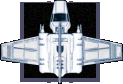
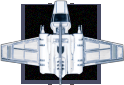
Extended text time, cleaned up ship transparency

diff --git a/index.html b/index.html
@@ -22,10 +22,10 @@ oldspeech = [0, 0, 0, 0, 0];
 var ship = {
 	name: [],
 	base: 80,
-	protrusions: 2,
-	offset: 20,
-	width: 123,
-	height: 84,
+	protrusions: 4,
+	offset: 21,
+	width: 124,
+	height: 85,
 	x: 400,
 	y: 540,
 	r: -0.5 * pi
@@ -165,7 +165,6 @@ function orient (flightplan) {
 		ctx[1].translate(direction * radius, 0);
 		ctx[1].rotate(direction * arc * pi);
 		ctx[1].translate(direction * -radius, -ship.base);
-
 		ship.r += direction * arc * pi;
 		if (ship.r > 2 * pi) {
 			ship.r -= 2 * pi;
@@ -197,7 +196,7 @@ function writespeech () {
 	var speechtimer = movecounter * 100 + timer;
 	ctx[2].clearRect(0, 0, 800, 600);
 	ctx[2].save();
-	ctx[2].globalAlpha = Math.sin(Math.max((1.2 * speechtimer / 500 - 0.2) * pi, 0));
+	ctx[2].globalAlpha = Math.sin(Math.max((1.2 * speechtimer / 600 - 0.2) * pi, 0));
 	ctx[2].font = "24px Bookman";
 	var line = [[], [], []];
 	var allspeech = speechtext.join("").split(" ");
@@ -216,10 +215,10 @@ function writespeech () {
 	ctx[2].fillText(line[1], 25, 60);
 	ctx[2].fillText(line[2], 35, 90);
 	ctx[2].restore();
-	if (movecounter == 1) {
+	if (movecounter == 2) {
 		document.title = speechtext[1].substr(5);
 	};
-	if (movecounter > 4) {
+	if (movecounter > 5) {
 		speech();
 		movecounter = 0;
 	};
@@ -388,17 +387,13 @@ speechParts = [[
 	"Exalted",
 	"Glacial",
 	"Grandiose",
-
 	"Imposing",
 	"Iridescent",
 	"Ivory",
-
 	"Luminous",
 	"Majestic",
 	"Magnificent",
 	"Massive",
-
-
 	"Monumental",
 	"Ominous",
 	"Opalescent",
@@ -406,18 +401,14 @@ speechParts = [[
 	"Pasty",
 	"Pearlescent",
 	"Pompous",
-
 	"Porcelain",
 	"Prismatic",
 	"Radiant",
 	"Regal",
-
 	"Resplendent",
 	"Scintillating",
 	"Snowy",
-
 	"Stately",
-
 	"Stupendous",
 	"Sublime",
 	"Astounding",
@@ -441,13 +432,11 @@ speechParts = [[
 	"Jovian",
 	"Lunar",
 	"Orbital",
-
 	"Planetary",
 	"Solar",
 	"Space",
 	"Star",
 	"Stellar",
-
 	"Void",
 	"Asteroid",
 	"Comet",
@@ -480,40 +469,41 @@ speechParts = [[
 	"Porpoise",
 	"Water Buffalo",
 	"Zebu"],
-
-[
-"Agitated,",
-"Angling its deflector screens,",
-"Deliberately, almost methodically,",
-"Expertly cresting the gravitic tides,",
-"Frill fully erect,",
-"Heedless of the micrometeorites,",
-"Ion engines pulsing powerfully,",
-"Quickly adjusting to the stellar wind,",
-"Relying on specialized senses a thousand times more keen than a bloodhound's,",
-"Rousing from its reverie,",
-"Sounding the distinctive, guttural trill of its kind,",
-"Suddenly alert,",
-"Taking an aggressive posture,",
-"Weary with exertion,",
-"With wings unfurled,"
-],
-[
-"begins the perilous journey back to its nesting grounds.",
-"charts a meandering path through the asteroid belt.",
-"churns the aether in a frenzy, maddened by the scent of blood.",
-"circles warily, disturbed by our film crew.",
-"corrects its course; the destination: the ancestral Sienar spawning grounds.",
-"drifts right past the signal beacon, compounding our mystery.",
-"finishes basking in the fitful radiation of the system's pulsar.",
-"gathers itself to pounce upon its hapless prey.",
-"lashes mightily against the unyielding pull of a nearby singularity.",
-"prepares to charge, all too aware of the rival intruding upon its territory.",
-"rears dramatically in a display of dominance.",
-"searches for the source of the mating call.",
-"sweeps the area for potential threats.",
-"tastes the air, spooked by some unseen menace."
-]];
+	[
+	"Agitated,",
+	"Angling its deflector screens,",
+	"Deliberately, almost methodically,",
+	"Expertly cresting the gravitic tides,",
+	"Frill fully erect,",
+	"Heedless of the micrometeorites,",
+	"Ion engines pulsing powerfully,",
+	"Ponderously,",
+	"Quickly adjusting to the stellar wind,",
+	"Relying on specialized senses a thousand times more keen than a bloodhound's,",
+	"Rousing from its reverie,",
+	"Sounding the distinctive, guttural trill of its kind,",
+	"Suddenly alert,",
+	"Taking an aggressive posture,",
+	"Weary with exertion,",
+	"With wings unfurled,"
+	],
+	[
+	"begins the perilous journey back to its nesting grounds.",
+	"charts a meandering path through the asteroid belt.",
+	"churns the aether in a frenzy, maddened by the scent of blood.",
+	"circles warily, disturbed by our film crew.",
+	"corrects its course; the destination: the ancestral Sienar spawning grounds.",
+	"drifts right past the signal beacon, compounding our mystery.",
+	"finishes basking in the fitful radiation of the system's pulsar.",
+	"gathers itself to pounce upon its hapless prey.",
+	"lashes mightily against the unyielding pull of a nearby singularity.",
+	"prepares to charge, all too aware of the rival intruding upon its territory.",
+	"rears dramatically in a display of dominance.",
+	"searches for the source of the mating call.",
+	"sweeps the area for potential threats.",
+	"tastes the air, spooked by some unseen menace."
+	]
+];
 -->
 </script>
 </head>
